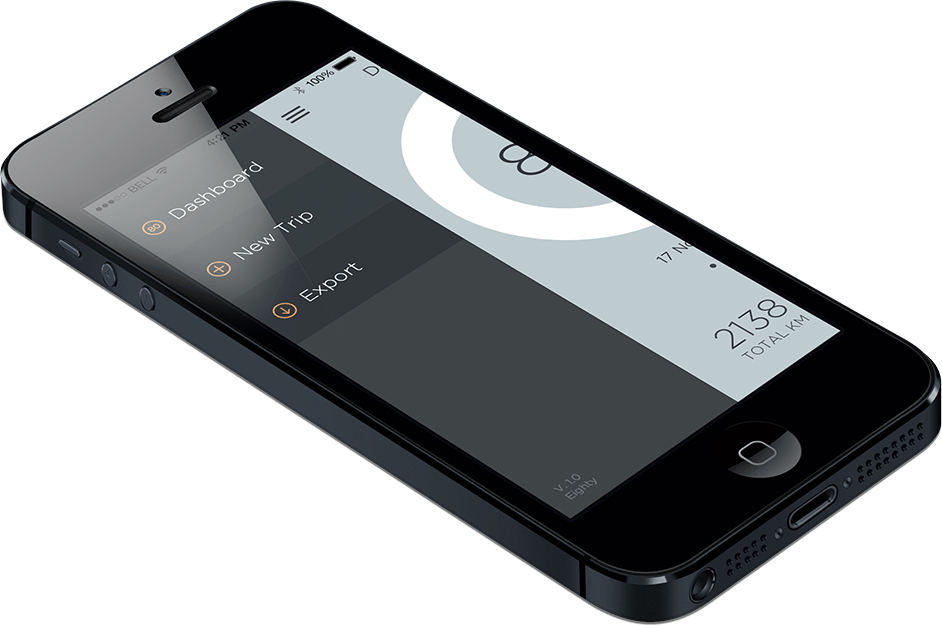
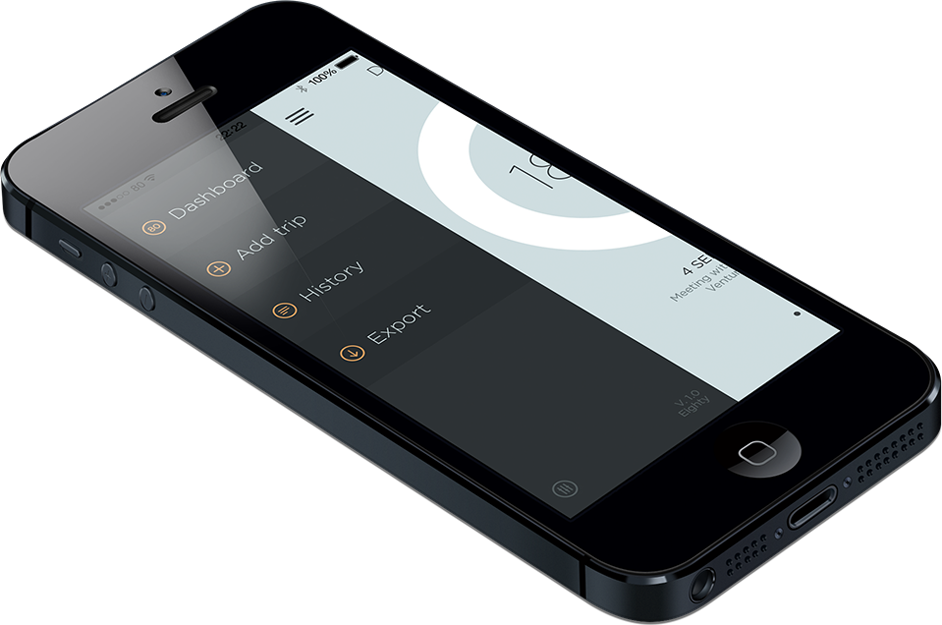
lighter bg

diff --git a/css/main.css b/css/main.css
@@ -133,7 +133,7 @@ textarea {
 body {
     font: 16px/26px;
     font-family: "proxima-nova", sans-serif;
-    background-color: #becccf;
+    background-color: #cedde0;
 }
 
 header, footer {
